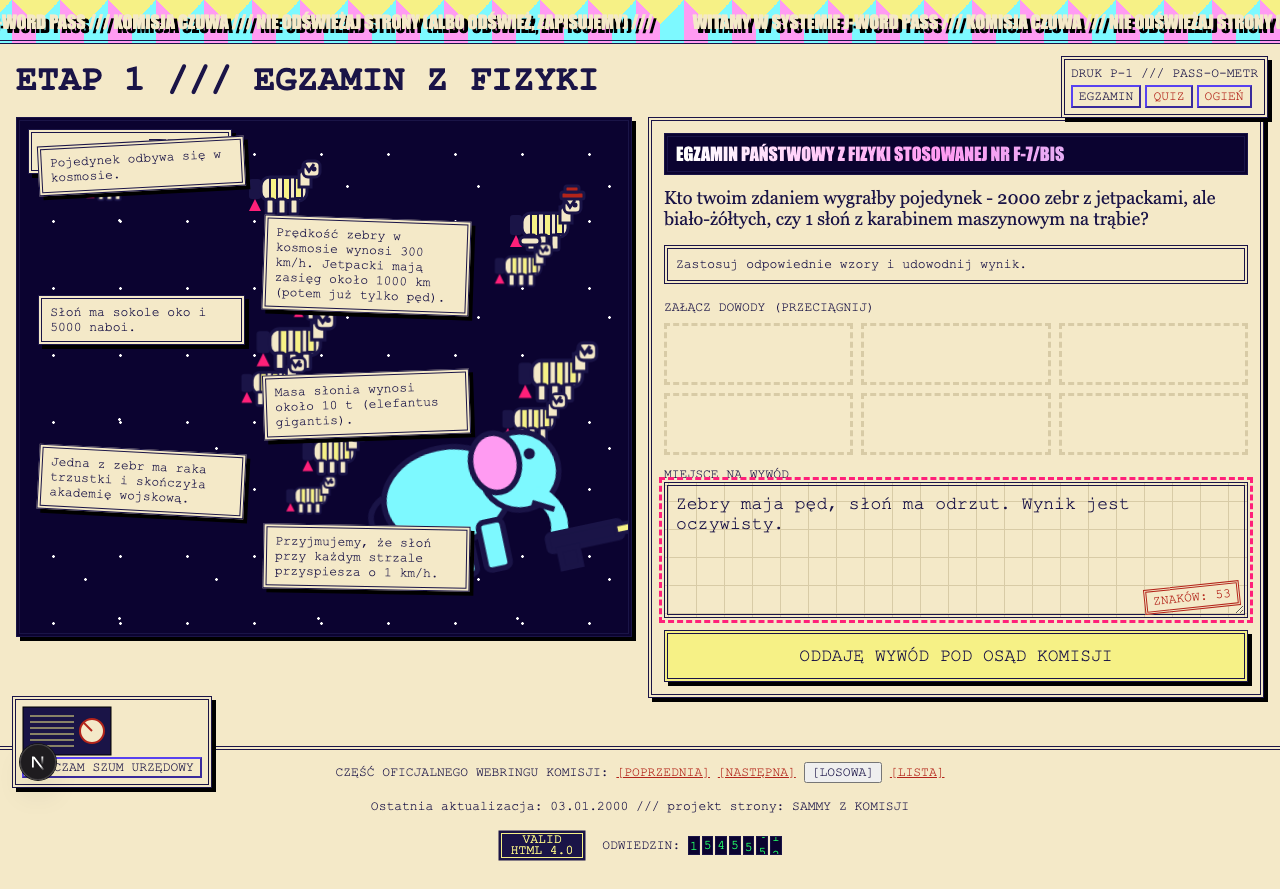
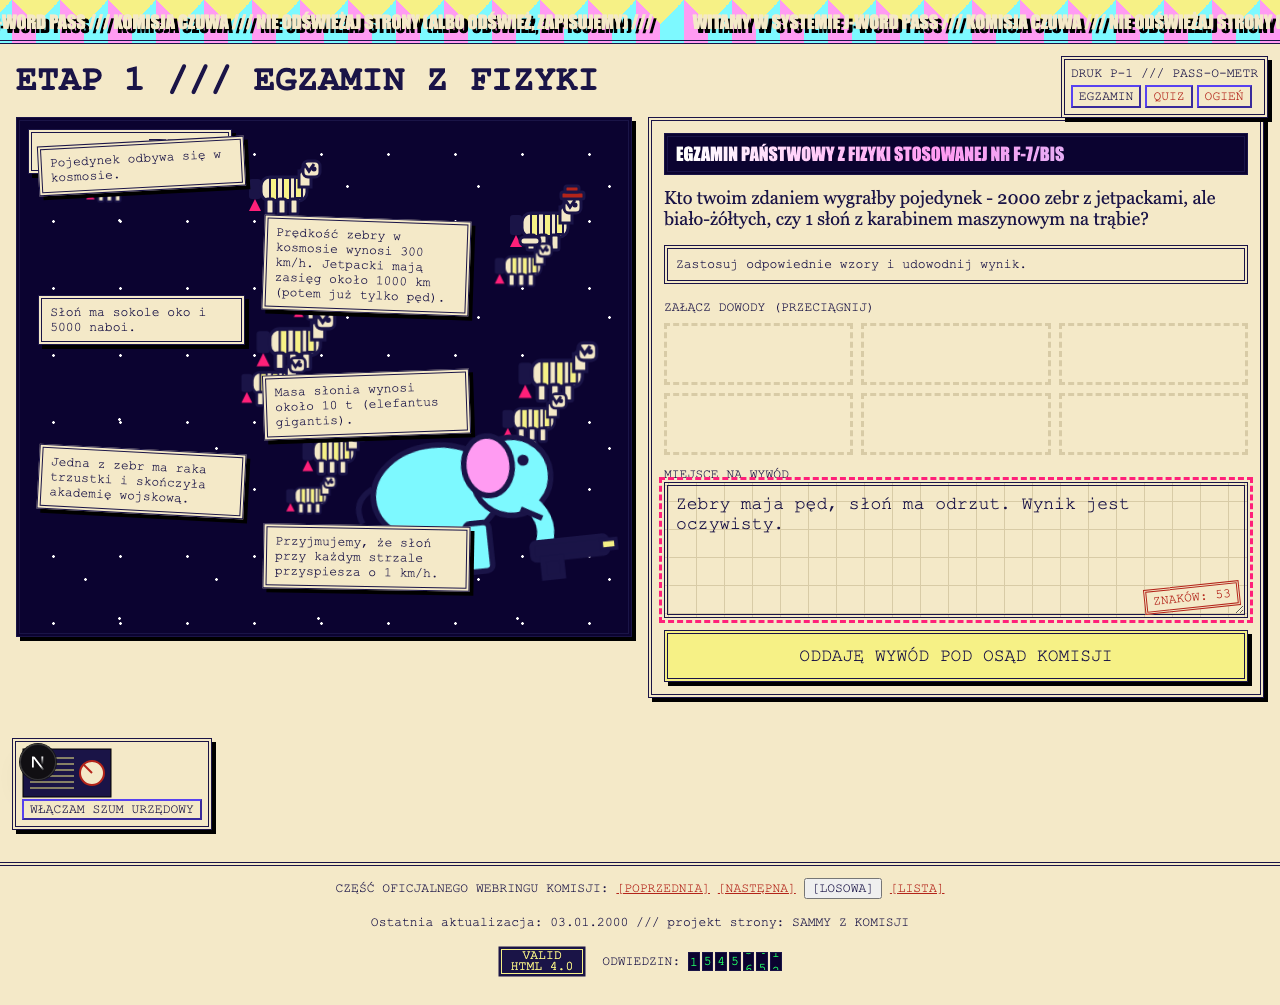
F7-05: RadioKomisji wraca do przeplywu - koniec zaslaniania przyciskow i stopki
Widzet mial position: fixed w lewym dolnym rogu i lezal nad trescia: na 390 px
przykrywal przycisk wejscia na bramie i przycisk werdyktu po ocenie, na desktopie
wchodzil na stopke i scene egzaminu. Teraz stoi w normalnym przeplywie nad stopka.

tests/f7-05.spec.ts mierzy oba viewporty: przeciecie prostokatow radia ze stopka
oraz elementFromPoint na srodku kazdego elementu klikalnego. Z przywroconym
position: fixed test pada (3 przypadki na mobile).

Claude-Session: https://claude.ai/code/session_01LiXwZM95rtfhAzBeeT1X5o

diff --git a/tests/f7-05.spec.ts b/tests/f7-05.spec.ts
@@ -1,0 +1,62 @@
+import { test, expect } from "@playwright/test";
+
+// AC F7-05: widzet RadioKomisji nie przykrywa ANI stopki, ANI zadnego elementu
+// klikalnego - na obu viewportach. Sprawdzamy dwoma miarami:
+//  (a) przeciecie prostokatow radia i wierszy tekstu stopki = zero,
+//  (b) trafienie w srodek kazdego klikalnego elementu (`elementFromPoint`)
+//      nigdy nie laduje w radiu - czyli radio niczego nie zaslania.
+// (b) jest mocniejsze niz samo przeciecie: strazEtapu to CELOWA nakladka nad
+// trescia (Z15) i lezy NAD radiem, wiec przeciecie z nia bledem nie jest.
+
+async function zbadaj(page: import("@playwright/test").Page) {
+  return page.evaluate(() => {
+    const radio = document.querySelector("[data-radio]");
+    if (!radio) return { brakRadia: true, przykryte: [], stopka: [] };
+    const r = radio.getBoundingClientRect();
+    const przykryte: string[] = [];
+    for (const el of Array.from(document.querySelectorAll('button, a, [role="button"]'))) {
+      if (radio.contains(el)) continue;
+      const e = el.getBoundingClientRect();
+      if (e.width === 0 || e.height === 0) continue;
+      const trafiony = document.elementFromPoint(e.left + e.width / 2, e.top + e.height / 2);
+      if (trafiony && radio.contains(trafiony)) przykryte.push((el.textContent || el.tagName).trim().slice(0, 60));
+    }
+    const stopka: string[] = [];
+    const f = document.querySelector("[data-webring]");
+    if (f)
+      for (const el of Array.from(f.querySelectorAll("p, span"))) {
+        const e = el.getBoundingClientRect();
+        if (e.width === 0 || e.height === 0) continue;
+        if (r.left < e.right && e.left < r.right && r.top < e.bottom && e.top < r.bottom)
+          stopka.push((el.textContent || "").trim().slice(0, 60));
+      }
+    return { brakRadia: false, przykryte, stopka };
+  });
+}
+
+for (const sciezka of ["/", "/egzamin", "/quiz", "/proba-ognia"]) {
+  test(`radio nie zaslania nic na ${sciezka}`, async ({ page }, info) => {
+    await page.goto(sciezka);
+    await expect(page.locator("[data-radio]")).toHaveCount(1);
+    const wynik = await zbadaj(page);
+    expect(wynik.brakRadia).toBe(false);
+    expect(wynik.przykryte).toEqual([]);
+    expect(wynik.stopka).toEqual([]);
+    if (sciezka === "/")
+      await page.screenshot({ path: `screenshots/F7/F7-05-brama-${info.project.name}.png`, fullPage: true });
+  });
+}
+
+test("radio nie zaslania przycisku werdyktu ani stopki po ocenie", async ({ page }, info) => {
+  await page.route("**/api/ocena", (t) => t.fulfill({ json: { punkty: 8, komentarz: "Komisja odnotowuje tupet." } }));
+  await page.goto("/egzamin");
+  await page.locator("[data-pole-robocze]").fill("Zebry maja ped, slon ma odrzut.");
+  await page.locator("[data-arkusz] button").click();
+  await expect(page.locator("[data-werdykt]")).toHaveAttribute("data-werdykt", "8", { timeout: 12_000 });
+  await page.waitForTimeout(400);
+
+  const wynik = await zbadaj(page);
+  expect(wynik.przykryte).toEqual([]);
+  expect(wynik.stopka).toEqual([]);
+  await page.screenshot({ path: `screenshots/F7/F7-05-werdykt-${info.project.name}.png`, fullPage: true });
+});

diff --git a/app/globals.css b/app/globals.css
@@ -150,11 +150,12 @@ a:hover, button:hover { outline: 3px dashed var(--alarm); outline-offset: 2px; }
 .straz-etapu__druk { font-family: var(--font-krzyk); margin: 0 0 8px; }
 
 /* == RADIO KOMISJI == */
+/* F7-05: bylo `position: fixed` w lewym dolnym rogu (plan/04 A). Fixed lezy NAD
+   trescia, wiec widzet zaslanial stopke, przycisk werdyktu i przyciski bramy.
+   Widzet wraca do normalnego przeplywu tuz nad stopka - dalej w lewym dolnym
+   rogu STRONY, ale juz niczego nie przykrywa. */
 .radio-komisji {
-  position: fixed;
-  left: 12px;
-  bottom: 12px;
-  z-index: 40;
+  margin: 24px 0 0 12px;
   border: var(--ramka);
   background: var(--papier);
   box-shadow: var(--cien-x) var(--cien-y) 0 var(--cien);

diff --git a/plan/10-BACKLOG.md b/plan/10-BACKLOG.md
@@ -231,10 +231,15 @@ przemapowane na `var(--...)` (dozwolone tylko w komentarzu licencyjnym).
   DLACZEGO TO PROBLEM: kandydat wchodzący z linku zobaczy ekran logowania Vercela, a nie bramę. Dopóki gra ma być publiczna, ochrona musi zniknąć albo dostać bypass.
   AC: decyzja użytkownika na bramce F8-01 - albo `vercel project` / dashboard wyłącza Vercel Authentication dla produkcji, albo zostaje świadomie (gra prywatna). Weryfikacja: `curl -sI <url produkcyjny>` zwraca 200, nie 302.
 
-- [ ] **F7-05** `ui` Na 390 px widżet RadioKomisji (lewy dolny róg) NAKŁADA SIĘ na treść `WebringStopki` - zasłania wiersz „ostatnia aktualizacja / projekt" i etykietę licznika odwiedzin.
+- [x] **F7-05** `ui` Na 390 px widżet RadioKomisji (lewy dolny róg) NAKŁADA SIĘ na treść `WebringStopki` - zasłania wiersz „ostatnia aktualizacja / projekt" i etykietę licznika odwiedzin.
   ZNALEZIONE W: F2-04 (oględziny screenshotu DoD `screenshots/F2/F2-DoD-egzamin-mobile.png`; testy tego nie łapią, bo asercje sprawdzają istnienie elementów, nie kolizję prostokątów).
   AC: na 390x844 prostokąt widżetu radia nie przecina żadnego prostokąta tekstu stopki (Playwright: `getBoundingClientRect()` obu, assert brak przecięcia) - np. przez dolny padding stopki równy wysokości widżetu; screenshot mobile w `screenshots/F7/`; desktop 1280x800 bez zmian wizualnych.
   ROZSZERZENIE (F3-04): widżet nie zasłania już tylko stopki. Na `screenshots/F3/F3-04-werdykt-mobile.png` przykrywa PRZYCISK `PRZYJMUJĘ WERDYKT, ŻĄDAM QUIZU`, a na `F3-04-werdykt-desktop.png` wchodzi na scenę egzaminu. To samo zjawisko, ale trafia już w element interaktywny, więc AC obejmuje też: na obu viewportach prostokąt widżetu nie przecina prostokąta ŻADNEGO elementu klikalnego (`button`, `a`, `[role="button"]`).
+  DOWÓD: ✓ przyczyna: `.radio-komisji` miało `position: fixed; left/bottom; z-index: 40` - nakładka nad treścią. Fix: widżet wraca do normalnego przepływu tuż nad stopką (`margin: 24px 0 0 12px`), zero pozycjonowania, więc nie może niczego przykryć na żadnym viewporcie ani przy żadnym scrollu.
+  ✓ `tests/f7-05.spec.ts` (10 przypadków, 2 viewporty): dla 4 route'ów oraz dla stanu PO WERDYKCIE mierzy (a) przecięcie prostokątów radia z wierszami tekstu stopki = 0, (b) `elementFromPoint` na środku KAŻDEGO `button, a, [role="button"]` nigdy nie trafia w radio = nic nie jest zasłonięte. Mocniejsze niż samo przecięcie prostokątów, bo `StrazEtapu` to celowa nakładka nad treścią (Z15) i leży NAD radiem.
+  ✓ test odtwarza błąd: z przywróconym `position: fixed` = 3 fail na mobile (`/`, `/quiz`, `/proba-ognia`), po fixie 10/10 pass.
+  ✓ screenshots/F7/F7-05-brama-{desktop,mobile}.png i F7-05-werdykt-{desktop,mobile}.png (390x844 i 1280x800): radio stoi nad PassOMetrem i stopką, przycisk `SKŁADAM WNIOSEK I WCHODZĘ` oraz `PRZYJMUJĘ WERDYKT, ŻĄDAM QUIZU` w całości odsłonięte. Porównanie z zastanym `screenshots/F2/F2-DoD-brama-mobile.png` pokazuje wcześniejsze zasłonięcie przycisku wejścia.
+  ✓ `npx playwright test` = 106 passed + 12 skipped + 0 failed; `pnpm run check` zielony; `pnpm build` zielony.
 
 ## DoD FAZY F3 (odhaczone 2026-09-01)
 - ✓ `pnpm run check` zielony (`lint-tokens: czysto`, `tsc --noEmit` bez błędów).

diff --git a/DECISIONS.md b/DECISIONS.md
@@ -125,3 +125,23 @@ Decyzja: NIE cofam tego (usunięcie deployu / pauza projektu to działanie na
 zasobach użytkownika poza zakresem issue). Kolejne deploye workerów będą już
 preview automatycznie. Bramka F8-01 zostaje otwarta i przy jej wykonaniu trzeba
 świadomie rozstrzygnąć Deployment Protection - opisane jako znalezisko F7-04.
+
+## #8 - RadioKomisji przestaje być `position: fixed` (odstępstwo od plan/04 A pkt 4)
+
+plan/04 sekcja A opisuje `RadioKomisji` jako widżet "lewy dolny róg, fixed".
+Znalezisko F7-05 pokazało, że to nie jest kosmetyka: element `fixed` leży NAD
+treścią, więc na 390 px przykrywał przycisk `SKŁADAM WNIOSEK I WCHODZĘ` na
+bramie i `PRZYJMUJĘ WERDYKT, ŻĄDAM QUIZU` po ocenie, a na desktopie wchodził na
+stopkę i scenę egzaminu. To blokuje realną ścieżkę użytkownika.
+
+Rozważone i odrzucone: (a) dolny padding stopki równy wysokości widżetu - leczy
+tylko stopkę, każdy inny przycisk w lewym dolnym rogu nadal ginie przy scrollu;
+(b) lewa rynna na całej stronie (`body { padding-left }`) - przesuwa cały layout
+o 200 px i psuje kompozycję desktopu.
+
+Decyzja: widżet wraca do normalnego przepływu tuż nad stopką (jedna zmiana w
+`.radio-komisji`: `position/left/bottom/z-index` -> `margin`). Nadal jest w
+lewym dolnym rogu STRONY, tylko nie nakłada się na nic. Ten sam wzorzec ma już
+`PassOMetr` na mobile (`position: static` + `margin-top: auto`), więc shell
+zostaje spójny. AC F7-05 (zero kolizji z elementami klikalnymi) ma pierwszeństwo
+nad literalnym "fixed" z plan/04.
